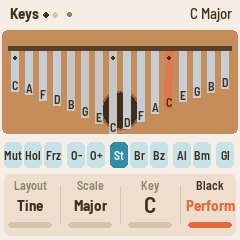
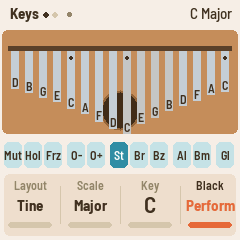
Tine: the next note up on the left, as a 17-key kalimba; Mirror keeps the old way
The Tine layout now puts the lowest tine (C4) on white key 9 and D4 to its left, D6 .. C6 left to
right: the 17-key kalimba in C without its top E6. A third Layout value, Mirror, is the previous
arrangement (C4 on key 8, D4 to its right). It's added last so saved projects keep Keyboard as 1;
projects saved on Tine now play the new way.

Tests: both layouts in kalimba_test, a Mirror scenario, the other scenarios' key positions moved to
the new Tine. Screenshots in docs/img regenerated.

Closes #1

diff --git a/web/emu/index.html b/web/emu/index.html
@@ -136,7 +136,7 @@ kbd { font: 600 .85em ui-monospace, Menlo, monospace; background: var(--card); b
   <div>
     <h2>Playing</h2>
     <ul>
-      <li><b>Layout</b> (Keys page): <b>Tine</b>, the default, puts the tines on the white keys as on a real kalimba, lowest note (C4) in the middle and the scale alternating outward. <b>Keyboard</b> makes every key, white and black, play its printed note from F3 up, with <b>Transpose</b> on the Keys page (or PRESETS).</li>
+      <li><b>Layout</b> (Keys page): <b>Tine</b>, the default, puts the tines on the white keys as on a real kalimba, lowest note (C4) in the middle, the next (D4) to its left and the scale alternating outward. <b>Mirror</b> is the same, flipped: D4 to the right of C4. <b>Keyboard</b> makes every key, white and black, play its printed note from F3 up, with <b>Transpose</b> on the Keys page (or PRESETS).</li>
       <li><b>Black keys</b> in the Tine layout follow the Keys page's <b>Black</b> setting: <b>Chords</b> (a thumb roll: C Dm Em F G Am Bdim, then CM7 FM7 G7 Am7), <b>Sharps</b> (the white key to the left, a semitone up) or <b>Perform</b> (mute, cover the hole, freeze, octave down / up while held, six materials).</li>
       <li><b>PLAY</b> freezes the grain cloud. <b>REC</b> mutes every tine. <b>ARP</b>, tapped, starts and stops the mbira pattern over the chord you pick (a chord key, held keys in Keyboard, or held MIDI notes); held, it opens the pattern's settings.</li>
       <li><b>OCT−</b> / <b>OCT+</b>: octave. <b>SELECT</b> material, <b>ALGORITHM</b> scale, <b>PRESETS</b> key.</li>

diff --git a/tests/host/kalimba_test.c b/tests/host/kalimba_test.c
@@ -143,19 +143,26 @@ static void test_music(void)
 {
     int i, c[4], n;
     char b[12];
-    /* Tine: C4 in the middle (w7), D4 right of it, E4 left of it: the 17-key kalimba in C */
-    CHECK(km_white_cents(LAY_TINE, 0, 0, 0, 7) == 6000, "tine w7 %d", km_white_cents(LAY_TINE, 0, 0, 0, 7));
-    CHECK(km_white_cents(LAY_TINE, 0, 0, 0, 8) == 6200, "tine w8");
-    CHECK(km_white_cents(LAY_TINE, 0, 0, 0, 6) == 6400, "tine w6");
-    CHECK(km_white_cents(LAY_TINE, 0, 0, 0, 0) == 6000 + 2400, "tine w0 (degree 14: C6) %d", km_white_cents(LAY_TINE, 0, 0, 0, 0));
-    CHECK(km_white_cents(LAY_TINE, 0, 0, 0, 15) == 8600, "tine w15 (D6)");
+    /* Tine: C4 in the middle (w8), D4 left of it, E4 right of it: the 17-key kalimba in C */
+    CHECK(km_white_cents(LAY_TINE, 0, 0, 0, 8) == 6000, "tine w8 %d", km_white_cents(LAY_TINE, 0, 0, 0, 8));
+    CHECK(km_white_cents(LAY_TINE, 0, 0, 0, 7) == 6200, "tine w7");
+    CHECK(km_white_cents(LAY_TINE, 0, 0, 0, 9) == 6400, "tine w9");
+    CHECK(km_white_cents(LAY_TINE, 0, 0, 0, 0) == 8600, "tine w0 (degree 15: D6) %d", km_white_cents(LAY_TINE, 0, 0, 0, 0));
+    CHECK(km_white_cents(LAY_TINE, 0, 0, 0, 15) == 6000 + 2400, "tine w15 (C6)");
     for (i = 1; i < 8; i++) {                    /* the V: each step out from the middle goes up */
         CHECK(km_white_cents(LAY_TINE, 0, 0, 0, 7 - i) > km_white_cents(LAY_TINE, 0, 0, 0, 8 - i), "tine left V %d", i);
         CHECK(km_white_cents(LAY_TINE, 0, 0, 0, 8 + i) > km_white_cents(LAY_TINE, 0, 0, 0, 7 + i), "tine right V %d", i);
     }
-    CHECK(km_white_cents(LAY_TINE, 3, 9, 0, 7) == 5700, "A minor-penta: A3 in the middle %d", km_white_cents(LAY_TINE, 3, 9, 0, 7));
-    CHECK(km_white_cents(LAY_TINE, 0, 5, 0, 7) == 6500 && km_white_cents(LAY_TINE, 0, 6, 0, 7) == 5400, "keys fold at F#");
-    CHECK(km_white_cents(LAY_TINE, 2, 0, 0, 10) == 7200, "penta wraps at 5 (w10 is degree 5)");
+    CHECK(km_white_cents(LAY_TINE, 3, 9, 0, 8) == 5700, "A minor-penta: A3 in the middle %d", km_white_cents(LAY_TINE, 3, 9, 0, 8));
+    CHECK(km_white_cents(LAY_TINE, 0, 5, 0, 8) == 6500 && km_white_cents(LAY_TINE, 0, 6, 0, 8) == 5400, "keys fold at F#");
+    CHECK(km_white_cents(LAY_TINE, 2, 0, 0, 5) == 7200, "penta wraps at 5 (w5 is degree 5)");
+    /* Mirror: the same V right for left: C4 on w7, D4 right of it, E4 left of it */
+    CHECK(km_white_cents(LAY_MIRROR, 0, 0, 0, 7) == 6000, "mirror w7 %d", km_white_cents(LAY_MIRROR, 0, 0, 0, 7));
+    CHECK(km_white_cents(LAY_MIRROR, 0, 0, 0, 8) == 6200, "mirror w8");
+    CHECK(km_white_cents(LAY_MIRROR, 0, 0, 0, 6) == 6400, "mirror w6");
+    CHECK(km_white_cents(LAY_MIRROR, 0, 0, 0, 0) == 8400 && km_white_cents(LAY_MIRROR, 0, 0, 0, 15) == 8600, "mirror ends (C6, D6)");
+    for (i = 0; i < 16; i++)
+        CHECK(km_white_cents(LAY_MIRROR, 4, 2, 1, i) == km_white_cents(LAY_TINE, 4, 2, 1, 15 - i), "mirror of tine %d", i);
     /* Keyboard: the keys as printed, F3 on the lowest, chromatic, transposed */
     for (i = 0; i < 27; i++)
         CHECK(km_keyboard_cents(0, 0, i) == 5300 + 100 * i, "keyboard key %d", i);

diff --git a/firmware/src/dsp/kalimba.c b/firmware/src/dsp/kalimba.c
@@ -80,10 +80,12 @@ int km_degree_cents(int s, int d)
 static int tonic(int key, int octave) { return 6000 + 100 * (key >= 6 ? key - 12 : key) + 1200 * octave; }
 
 /* Tine: the kalimba's own layout, the longest (lowest) tine in the middle and the scale alternating
- * outward, left right left right, so each thumb has every other note and thirds lie side by side:
+ * outward, left right left right, so each thumb has every other note and thirds lie side by side (the
+ * 17-key kalimba in C, D6 .. C4 .. E6, without its top E6):
  *   w:      0   1   2   3   4   5   6   7   8   9  10  11  12  13  14  15
- *   degree 14  12  10   8   6   4   2   0   1   3   5   7   9  11  13  15 */
-static int white_degree(int w) { return w <= 7 ? 2 * (7 - w) : 2 * (w - 8) + 1; }
+ *   degree 15  13  11   9   7   5   3   1   0   2   4   6   8  10  12  14
+ * Mirror is the same kalimba right for left: the lowest tine on w7, the next up on its right */
+static int white_degree(int w) { return w >= 8 ? 2 * (w - 8) : 2 * (7 - w) + 1; }
 
 int km_tonic_cents(int key, int octave) { return tonic(key, octave); }
 
@@ -98,8 +100,8 @@ int km_just_cents(int cents, int tonic_cents)
 
 int km_white_cents(int layout, int scale, int key, int octave, int w)
 {
-    (void)layout;                                 /* the Keyboard layout plays km_keyboard_cents */
-    return tonic(key, octave) + km_degree_cents(scale, white_degree(w & 15));
+    /* (the Keyboard layout plays km_keyboard_cents) */
+    return tonic(key, octave) + km_degree_cents(scale, white_degree(layout == LAY_MIRROR ? 15 - (w & 15) : w & 15));
 }
 
 /* Keyboard: the FM-1's keys as printed, F3 (MIDI 53) on the lowest, chromatic up to G5 */
@@ -181,7 +183,7 @@ void km_param_text(int i, int v, char *b)
 {
     static const char *const ONOFF[2] = {"Off", "On"};
     static const char *const BODY[BODY_N] = {"None", "Board", "Box", "Gourd"};
-    static const char *const LAY[LAY_N] = {"Tine", "Keyboard"};
+    static const char *const LAY[LAY_N] = {"Tine", "Keyboard", "Mirror"};
     static const char *const BLK[BLK_N] = {"Chords", "Sharps", "Perform"};
     static const char *const GP[GP_N] = {"-12", "-7", "0", "+7", "+12", "+19", "Shimmer", "Reverse"};
     static const char *const REL[2] = {"Ring", "Damp"};

diff --git a/firmware/src/dsp/kalimba.h b/firmware/src/dsp/kalimba.h
@@ -56,7 +56,7 @@ void km_param_text(int i, int v, char *buf);   /* the value as the screen shows 
 
 enum { MAT_STEEL, MAT_BRASS, MAT_BRONZE, MAT_ALU, MAT_BAMBOO, MAT_GLASS, MAT_N };
 enum { BODY_NONE, BODY_BOARD, BODY_BOX, BODY_GOURD, BODY_N };
-enum { LAY_TINE, LAY_KEYBOARD, LAY_N };
+enum { LAY_TINE, LAY_KEYBOARD, LAY_MIRROR, LAY_N };   /* Mirror: Tine right for left (last: saves keep their values) */
 enum { BLK_CHORDS, BLK_SHARPS, BLK_PERFORM, BLK_N };
 enum { PAT_THUMBS, PAT_CASCADE, PAT_HEMIOLA, PAT_INTERLOCK, PAT_N };
 enum { TUNE_EQUAL, TUNE_JUST, TUNE_N };
@@ -77,7 +77,7 @@ const km_material_t *km_material(int i);
 /* ---- music: everything in cents over MIDI note 0 (6000 = middle C) */
 int km_scale_len(int scale);
 int km_degree_cents(int scale, int degree);        /* the degree's cents over the tonic (any degree, < 0 too) */
-/* Tine layout: the tine a white key plays (scale, key 0..11, octave; w 0..15 left to right) */
+/* Tine (or Mirror) layout: the tine a white key plays (scale, key 0..11, octave; w 0..15 left to right) */
 int km_white_cents(int layout, int scale, int key, int octave, int w);
 /* Keyboard layout: the note of key k (0..26, F3..G5, white and black as printed), transposed */
 int km_keyboard_cents(int transpose, int octave, int k);

diff --git a/firmware/src/app/ui.c b/firmware/src/app/ui.c
@@ -6,6 +6,7 @@
  *                  Black: Chords (a thumb roll of the scale's chords), Sharps (the white key's tine a
  *                  semitone up) or Perform (palm mute, hole, freeze, octave down / up while held,
  *                  six materials)
+ *   Layout Mirror  Tine right for left: the lowest tine left of the middle, the next up on its right
  *   Layout Keyboard every key, white and black, plays its printed note (F3 on the lowest), shifted
  *                  by Transpose (and the octave): a chromatic kalimba with a tine per key
  *   PLAY freeze the grains     REC palm mute (every tine)     ARP tap: the mbira pattern on / off, over

diff --git a/README.md b/README.md
@@ -89,6 +89,8 @@ In rough order:
 - GitHub Actions to test everything, build the firmware, publish releases and this site, and a firmware
   updater in the web page.
 - The first install on a real FM-1, from the web page's updater: it boots and plays.
+- The Tine layout turned round to match a real 17-key kalimba, the second note left of the lowest
+  ([#1](https://github.com/jadamsowers/fm1-fimba/issues/1)); **Mirror** keeps the other way.
 
 ## Credits
 
@@ -135,17 +137,22 @@ M-VAVE, Hügelton Instruments, Charles Vestal or Baudgirl.
 What the keys do depends on the **Layout** (Keys page).
 
 **Tine layout** (the default) is a 17-key kalimba in C, laid out as on the instrument. The lowest
-tine is in the middle and the scale alternates outward, left, right, left, right. Each thumb gets
-every other note, and thirds sit side by side.
+tine is just right of the middle, and the scale alternates outward: left, right, left, right. Each
+thumb gets every other note, and thirds sit side by side. It's the 17-key kalimba's D6 … C4 … C6,
+without its top E6.
 
-| White key  | 1   | 2   | 3   | 4   | 5   | 6   | 7   | **8**  | 9   | 10  | 11  | 12  | 13  | 14  | 15  | 16  |
-| ---------- | --- | --- | --- | --- | --- | --- | --- | ------ | --- | --- | --- | --- | --- | --- | --- | --- |
-| In C major | C6  | A5  | F5  | D5  | B4  | G4  | E4  | **C4** | D4  | F4  | A4  | C5  | E5  | G5  | B5  | D6  |
+**Mirror** is the same kalimba flipped: the lowest tine sits just left of the middle and the next
+note is to its right.
+
+| White key  | 1   | 2   | 3   | 4   | 5   | 6   | 7   | 8      | 9      | 10  | 11  | 12  | 13  | 14  | 15  | 16  |
+| ---------- | --- | --- | --- | --- | --- | --- | --- | ------ | ------ | --- | --- | --- | --- | --- | --- | --- |
+| Tine, C    | D6  | B5  | G5  | E5  | C5  | A4  | F4  | D4     | **C4** | E4  | G4  | B4  | D5  | F5  | A5  | C6  |
+| Mirror, C  | C6  | A5  | F5  | D5  | B4  | G4  | E4  | **C4** | D4     | F4  | A4  | C5  | E5  | G5  | B5  | D6  |
 
 Scale and Key change the notes. The lowest tine always sits between F♯3 and F4, so a kalimba in C
 starts on C4 and one in B on B3; OCT−/OCT+ move it.
 
-In the Tine layout, the **black keys** do what **Black** says (Keys page, KNOB 4):
+In the Tine and Mirror layouts, the **black keys** do what **Black** says (Keys page, KNOB 4):
 
 - **Chords** (default): each key rolls a chord across the tines the way a thumb slides over them
   (root, third, fifth, octave), **Strum ms** apart. The first seven keys are the triads on the
@@ -275,11 +282,11 @@ centre.
 | Feedback | 0–95 (45)       | How many echoes: each is this fraction of the one before                        |
 | Width    | 0–100 (70)      | Stereo width: the tines' spread from left to right, and the grains' and echoes' |
 
-**SEL → Keys**: Layout, Scale, Key, Black in the Tine layout; Layout, Transpose, Octave in Keyboard
+**SEL → Keys**: Layout, Scale, Key, Black in the Tine and Mirror layouts; Layout, Transpose, Octave in Keyboard
 
 | Knob      | Range (default)                                                                                                      | What it does                                                                                                                               |
 | --------- | -------------------------------------------------------------------------------------------------------------------- | ------------------------------------------------------------------------------------------------------------------------------------------ |
-| Layout    | Tine, Keyboard (Tine)                                                                                                | [Keys](#keys)                                                                                                                              |
+| Layout    | Tine, Keyboard, Mirror (Tine)                                                                                        | [Keys](#keys)                                                                                                                              |
 | Scale     | Major, Minor, Penta, Penta m, Dorian, Mixolydian, Lydian, Harmonic minor, Hirajoshi, Blues, Mbira, Chromatic (Major) | The tines' scale (Tine layout). Mbira approximates a Shona _Nyamaropa_ tuning, close to an equal seven-step octave with a near-pure fifth. |
 | Key       | C–B (C)                                                                                                              | The tonic (Tine layout)                                                                                                                    |
 | Black     | Chords, Sharps, Perform (Chords)                                                                                     | What the black keys do (Tine layout)                                                                                                       |
